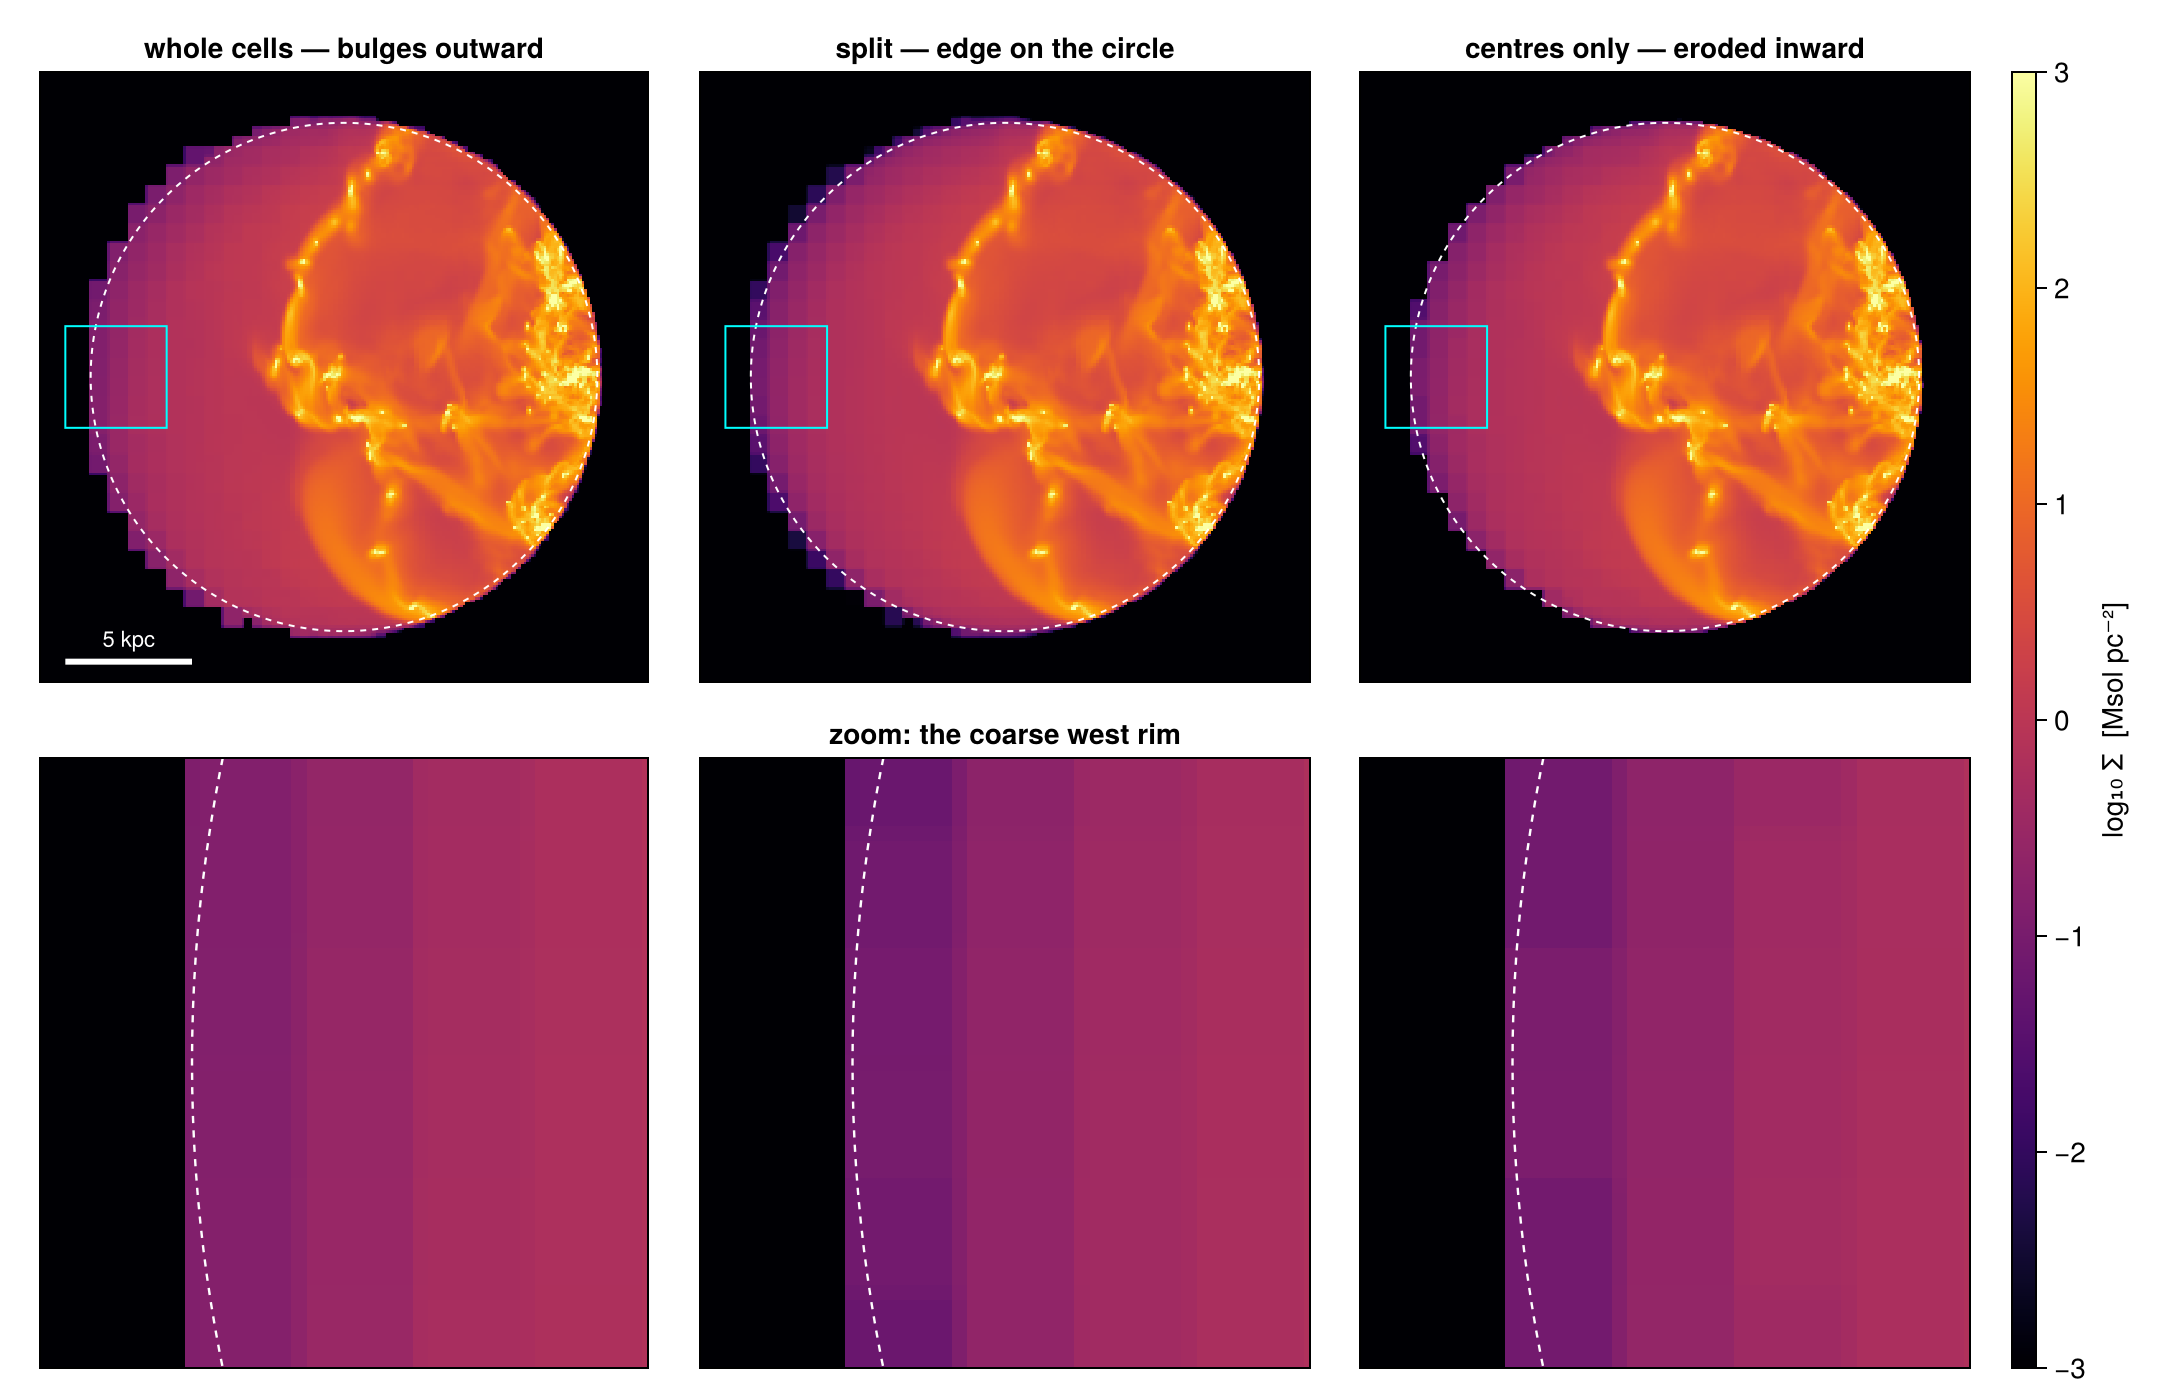
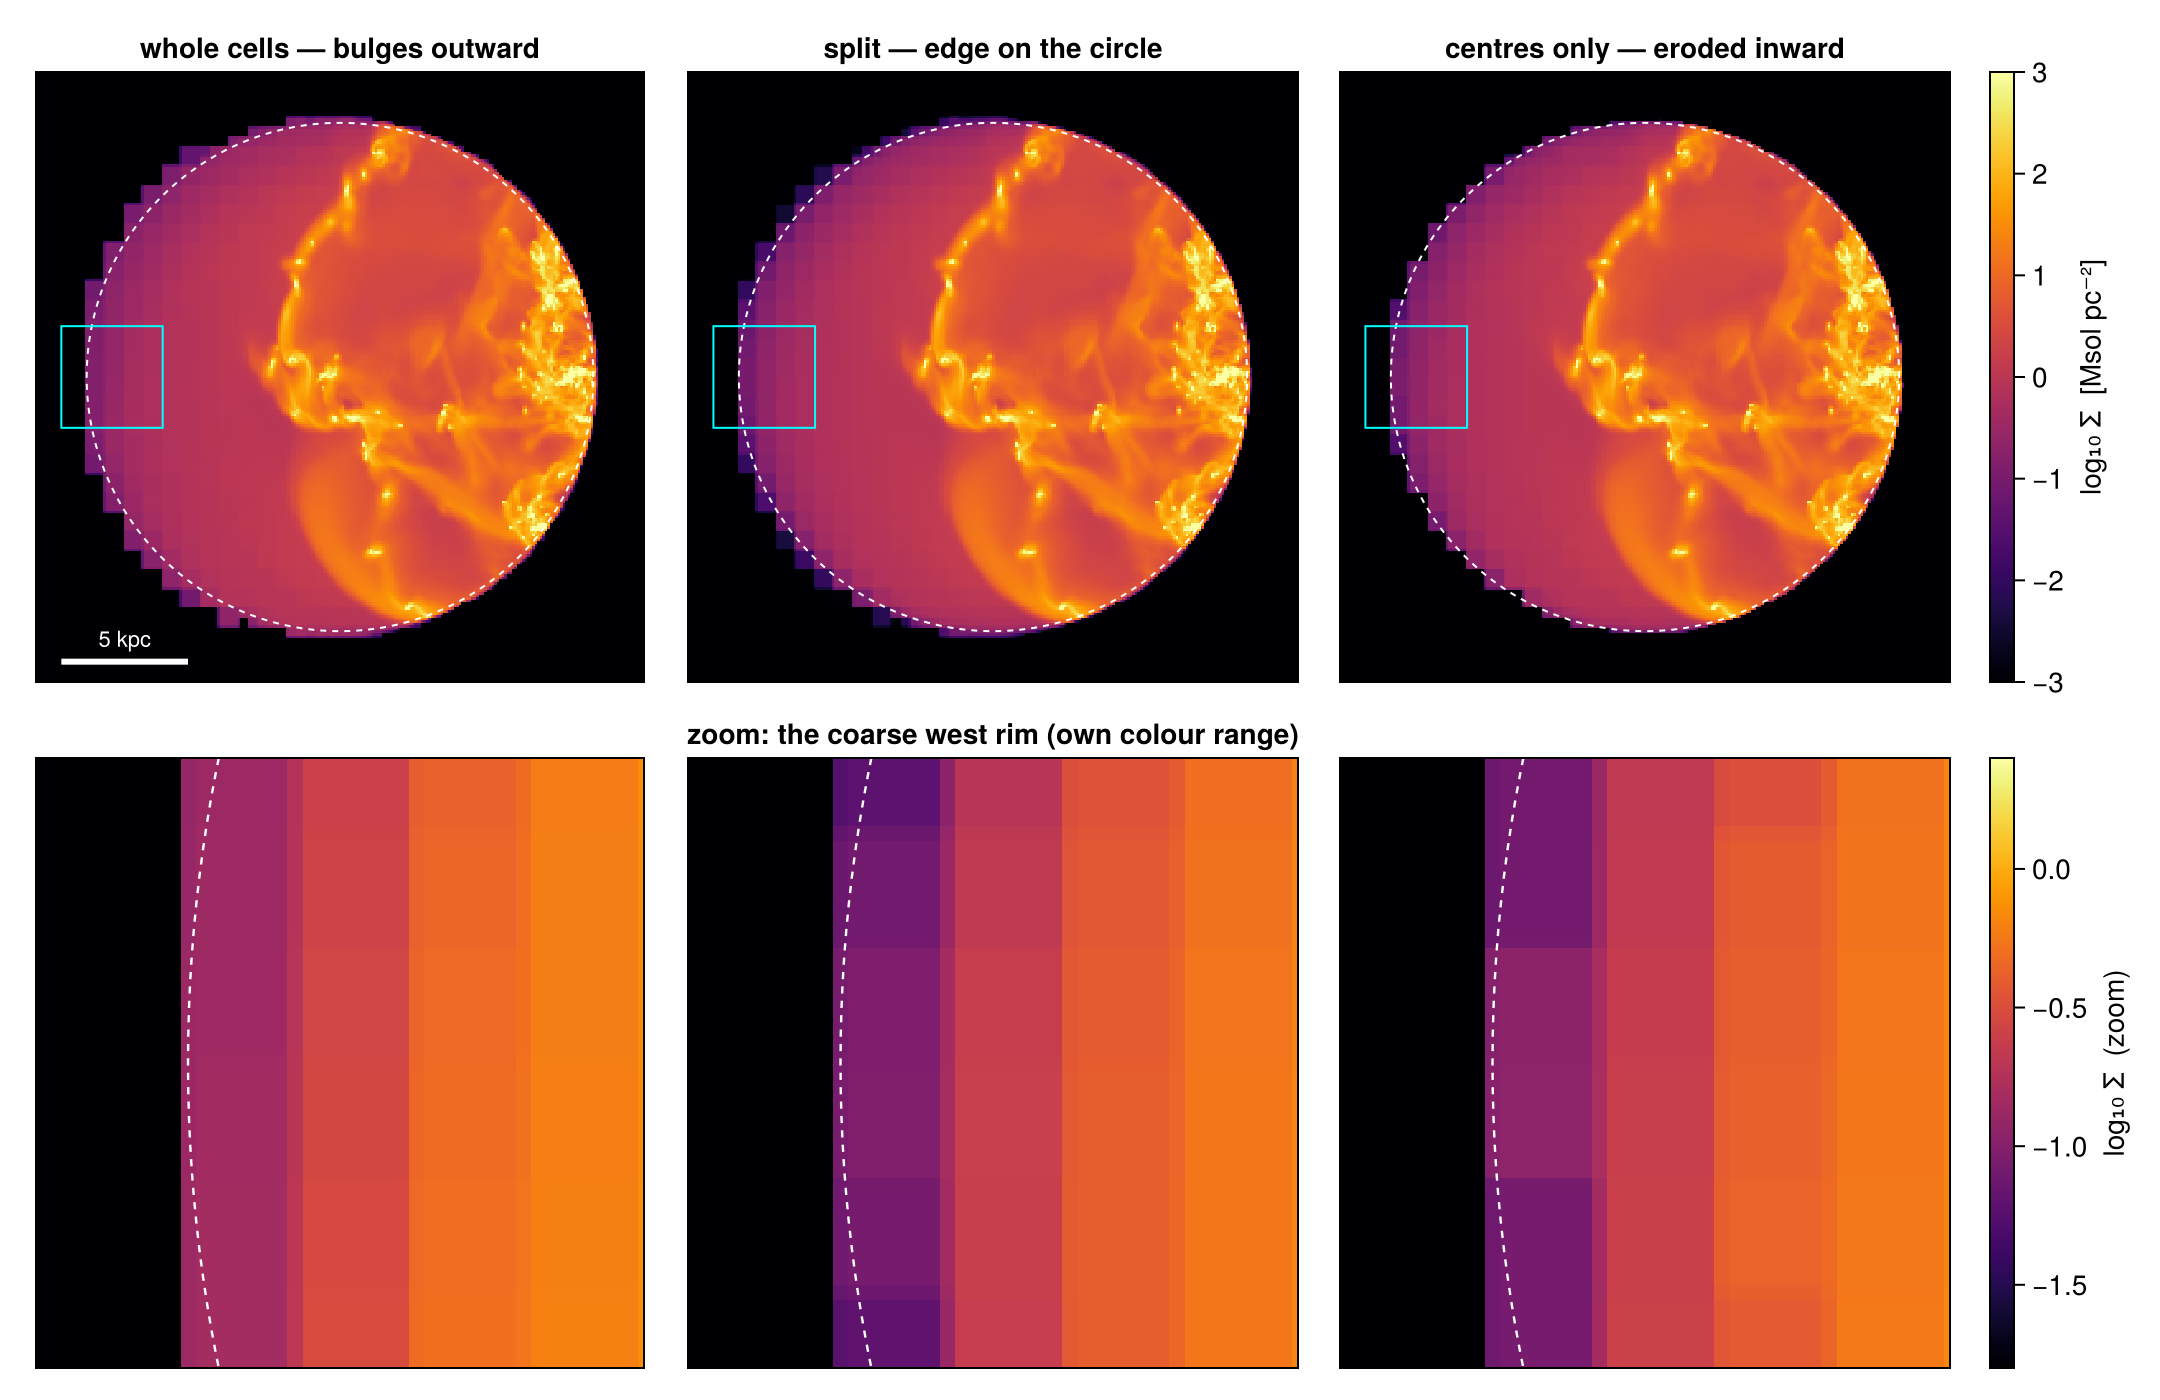
docs(subregions): give the rim zoom its own colour range
The three zoom panels looked the same, which was a fair reading: measured
across that window the whole-cell and centre-test maps differ from the
split map by 15 % and 3 %. On the page-wide six-decade scale those are
0.06 and 0.01 dex, roughly one per cent of the colour bar, so the
captions promised a difference the picture could not show.

The rim spans about 1.8 dex, so the zoom row now stretches over that
instead, with its own colorbar. The bright boundary column of the whole
cells, the dimmed one of the split, and the eroded step of the centre
test are all visible. show_sd! gained a lims keyword to allow it.

diff --git a/docs/src/03_hydro_Get_Subregions.md b/docs/src/03_hydro_Get_Subregions.md
@@ -123,10 +123,10 @@ the banner; skim below it.**
 # ─────────────────────────────────────────────────────────────────────
 const SDLIM = (-3.0, 3.0)   # log10 Σ [Msol/pc²] — one colour scale for every map on this page
 
-function show_sd!(ax, p; flo=1e-3, decorate=false)
+function show_sd!(ax, p; flo=1e-3, decorate=false, lims=SDLIM)
     xs = range(p.cextent[1]*kpc, p.cextent[2]*kpc; length=size(p.maps[:sd], 1))
     ys = range(p.cextent[3]*kpc, p.cextent[4]*kpc; length=size(p.maps[:sd], 2))
-    heatmap!(ax, xs, ys, log10.(max.(p.maps[:sd], flo)); colormap=:inferno, colorrange=SDLIM)
+    heatmap!(ax, xs, ys, log10.(max.(p.maps[:sd], flo)); colormap=:inferno, colorrange=lims)
     ax.aspect = DataAspect()
     ax.backgroundcolor = :black
     decorate || hidedecorations!(ax)
@@ -446,6 +446,13 @@ p_up = proj(sph_whole;  zoomw...)
 p_sp = proj(sph;        zoomw...)
 p_lo = proj(sph_centre; zoomw...)
 
+# The rim spans about 1.8 dex, while the page-wide scale spans 6. Measured across this
+# window the three treatments differ from the split map by 15 % (whole) and 3 % (centres),
+# which is 0.06 and 0.01 dex: about 1 % of a six-decade colour bar, and invisible. The zoom
+# row therefore gets its own stretch, taken from the rim's own values.
+ZLIM = (-1.8, 0.4)
+
+# ── figure code from here: panels, overlays, colorbars, no new Mera concepts ──
 fig  = Figure(size=(1080, 700))
 L    = (-12, 12, -12, 12)
 Lz   = (-11, -7, -2, 2)                              # the coarse west rim
@@ -457,12 +464,13 @@ for (k, (p, ttl)) in enumerate(panels)
     show_sd!(ax, p, L)
     arc!(ax, Point2f(0, 0), 10., 0, 2π; color=:white, linewidth=1, linestyle=:dash)
     lines!(ax, [-11, -7, -7, -11, -11], [-2, -2, 2, 2, -2]; color=:cyan, linewidth=1)
-    axz = Axis(fig[2, k], title=k == 2 ? "zoom: the coarse west rim" : "")
-    show_sd!(axz, p, Lz)
+    axz = Axis(fig[2, k], title=k == 2 ? "zoom: the coarse west rim (own colour range)" : "")
+    show_sd!(axz, p, Lz; lims=ZLIM)
     arc!(axz, Point2f(0, 0), 10., 0, 2π; color=:white, linewidth=1.2, linestyle=:dash)
 end
 scalebar!(content(fig[1, 1]), -11, -11.2, 5)
-sd_bar!(fig[:, 4])
+sd_bar!(fig[1, 4])
+Colorbar(fig[2, 4]; colormap=:inferno, colorrange=ZLIM, label="log₁₀ Σ  (zoom)")
 fig
 ```
 
@@ -470,9 +478,17 @@ fig
 
 In the zoom the three verdicts of the cartoon reappear on real data: whole
 coarse blocks overshoot the dashed circle, the centre test bites visibly into
-it, and the split edge feathers *on* it, the residual softness is the
-projection depositing each straddling cell's (correctly weighted) mass over
-its full footprint, a point §7 returns to and measures.
+it, and the split edge sits *on* it with its boundary column dimmed to the
+fraction actually inside. The residual softness is the projection depositing
+each straddling cell's (correctly weighted) mass over its full footprint, a
+point §7 returns to and measures.
+
+The zoom row carries its **own colour range**, and that is not cosmetic. Across
+this window the three differ from the split map by 15 % (whole cells) and 3 %
+(centres), which on the page-wide six-decade scale is 0.06 and 0.01 dex, about
+one per cent of the colour bar. On that scale the three panels look identical
+and the reader is entitled to disbelieve the captions. Stretched to the rim's
+own 1.8 dex, the difference is plain.
 
 And here is what "splitting" means cell by cell. We take the split sphere's
 *boundary* cells (those with `0 < fraction < 1`) in a thin mid-plane slab and
